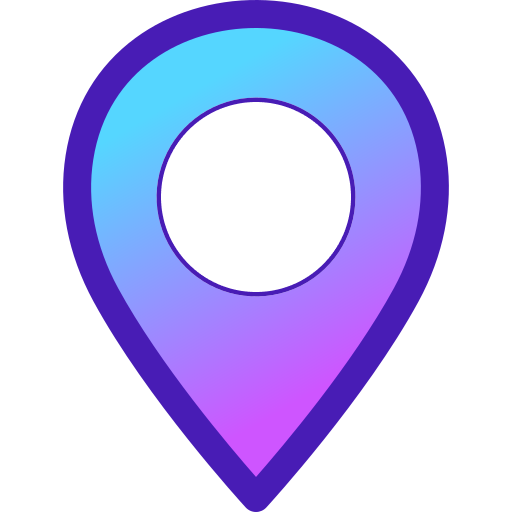
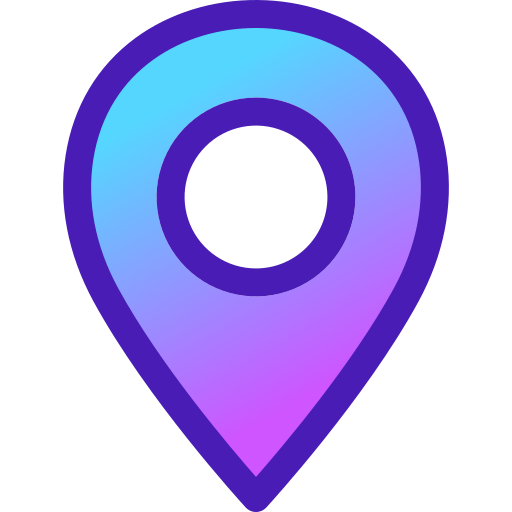
style: Footer 수정, 마커 아이콘 변경
- 마커 아이콘 저작자를 Footer에 표시
- theme.ts 파일에 중복된 key string 삭제

Changed region(s): [[0.3125, 0.1875, 0.6875, 0.5938]]

diff --git a/client/src/components/layout/Footer.tsx b/client/src/components/layout/Footer.tsx
@@ -11,8 +11,12 @@ const Footer = ({ isFull = false }: Props) => {
     <FooterStyle $isFull={isFull}>
       <img src={FooterLogo} alt="footer logo" width={"72px"} height={"55px"} />
       <div className="container">
-        <div>2024, 7days</div>
-        <div>copyrightⓒ</div>
+        <div>2024, 7days Team copyrightⓒ</div>
+        <small className="icon-license-link">
+          <a href="https://www.flaticon.com/free-icons/location-marker" title="location marker icons">
+            Location marker icons created by redempticon - Flaticon
+          </a>
+        </small>
       </div>
     </FooterStyle>
   );
@@ -23,12 +27,21 @@ const FooterStyle = styled.div<HeaderStyleProps>`
   justify-content: center;
   align-items: center;
   margin: 0 auto;
-  border-top: 1px solid #e7e7e7;
+  border-top: 1px solid ${({ theme }) => theme.color.borderGray};
+  padding: 0.5rem 0;
   gap: 16px;
   height: 80px;
   width: 100%;
   flex-shrink: 0;
   max-width: ${({ $isFull }) => ($isFull ? "100%" : "1080px")};
+
+  .icon-license-link {
+    a {
+      font-size: 0.5rem;
+      color: ${({ theme }) => theme.color.borderGray};
+      text-decoration: none;
+    }
+  }
 `;
 
 export default Footer;

diff --git a/client/src/styles/theme.ts b/client/src/styles/theme.ts
@@ -1,13 +1,4 @@
-export type Colorkey =
-  | "primary"
-  | "black"
-  | "white"
-  | "orange"
-  | "red"
-  | "commentGray"
-  | "borderGray"
-  | "borderGray"
-  | "routeGray";
+export type Colorkey = "primary" | "black" | "white" | "orange" | "red" | "commentGray" | "borderGray" | "routeGray";
 export type ButtonSize = "large" | "medium" | "small";
 export type FontSize = "xlarge" | "large" | "medium" | "small" | "xsmall";
 export type MediaQuery = "mobile" | "desktop";
